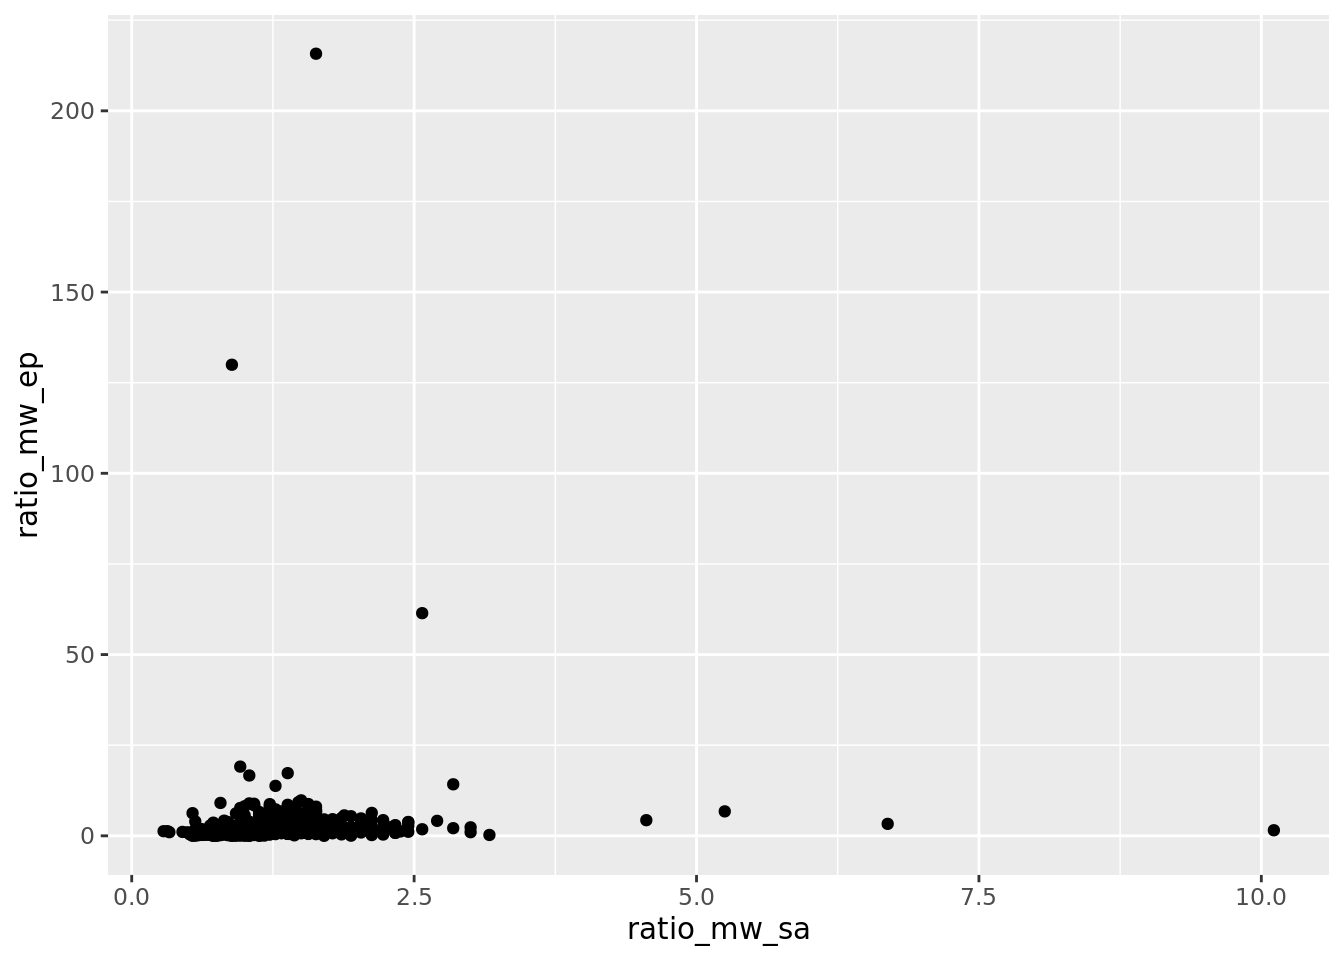
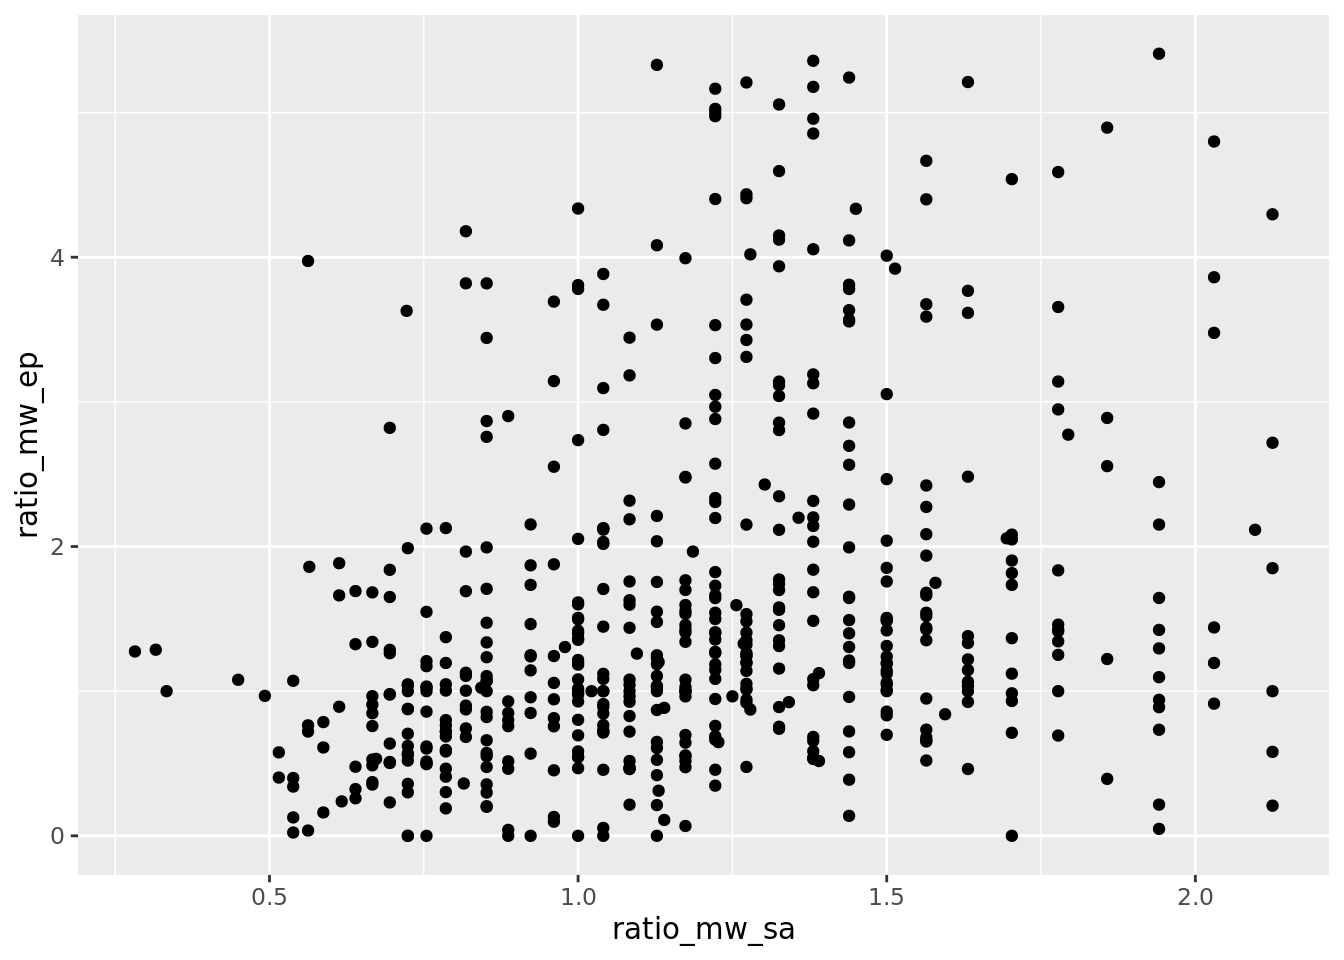
outliers public

diff --git a/docs/report.html b/docs/report.html
@@ -308,7 +308,20 @@ $ ratio_mw_ep         &lt;dbl&gt; 1.1985337, 2.4287042, 1.3413262, 1.3052437, 6.
 <div class="cell">
 <div class="sourceCode cell-code" id="cb7"><pre class="sourceCode r code-with-copy"><code class="sourceCode r"><span id="cb7-1"><a href="#cb7-1" aria-hidden="true" tabindex="-1"></a>eada_public <span class="ot">&lt;-</span> eada <span class="sc">|&gt;</span></span>
 <span id="cb7-2"><a href="#cb7-2" aria-hidden="true" tabindex="-1"></a>  <span class="fu">filter</span>(sector_name <span class="sc">==</span> <span class="st">"Public, 4-year or above"</span> <span class="sc">|</span> </span>
-<span id="cb7-3"><a href="#cb7-3" aria-hidden="true" tabindex="-1"></a>         sector_name <span class="sc">==</span> <span class="st">"Public, 2-year"</span>)</span></code><button title="Copy to Clipboard" class="code-copy-button"><i class="bi"></i></button></pre></div>
+<span id="cb7-3"><a href="#cb7-3" aria-hidden="true" tabindex="-1"></a>         sector_name <span class="sc">==</span> <span class="st">"Public, 2-year"</span>)</span>
+<span id="cb7-4"><a href="#cb7-4" aria-hidden="true" tabindex="-1"></a></span>
+<span id="cb7-5"><a href="#cb7-5" aria-hidden="true" tabindex="-1"></a>Q1_public_ep <span class="ot">&lt;-</span> <span class="fu">quantile</span>(eada_public<span class="sc">$</span>ratio_mw_ep, .<span class="dv">25</span>)</span>
+<span id="cb7-6"><a href="#cb7-6" aria-hidden="true" tabindex="-1"></a>Q1_public_sa <span class="ot">&lt;-</span> <span class="fu">quantile</span>(eada_public<span class="sc">$</span>ratio_mw_sa, .<span class="dv">25</span>)</span>
+<span id="cb7-7"><a href="#cb7-7" aria-hidden="true" tabindex="-1"></a></span>
+<span id="cb7-8"><a href="#cb7-8" aria-hidden="true" tabindex="-1"></a>Q3_public_ep <span class="ot">&lt;-</span> <span class="fu">quantile</span>(eada_public<span class="sc">$</span>ratio_mw_ep, .<span class="dv">75</span>)</span>
+<span id="cb7-9"><a href="#cb7-9" aria-hidden="true" tabindex="-1"></a>Q3_public_sa <span class="ot">&lt;-</span> <span class="fu">quantile</span>(eada_public<span class="sc">$</span>ratio_mw_sa, .<span class="dv">75</span>)</span>
+<span id="cb7-10"><a href="#cb7-10" aria-hidden="true" tabindex="-1"></a></span>
+<span id="cb7-11"><a href="#cb7-11" aria-hidden="true" tabindex="-1"></a>IQR_public_ep <span class="ot">&lt;-</span> <span class="fu">IQR</span>(eada_public<span class="sc">$</span>ratio_mw_ep)</span>
+<span id="cb7-12"><a href="#cb7-12" aria-hidden="true" tabindex="-1"></a>IQR_public_sa <span class="ot">&lt;-</span> <span class="fu">IQR</span>(eada_public<span class="sc">$</span>ratio_mw_sa)</span>
+<span id="cb7-13"><a href="#cb7-13" aria-hidden="true" tabindex="-1"></a></span>
+<span id="cb7-14"><a href="#cb7-14" aria-hidden="true" tabindex="-1"></a>eada_public <span class="ot">&lt;-</span> <span class="fu">subset</span>(eada_public, eada_public<span class="sc">$</span>ratio_mw_ep<span class="sc">&gt;</span> (Q1_public_ep <span class="sc">-</span> <span class="fl">1.5</span><span class="sc">*</span>IQR_public_ep) <span class="sc">&amp;</span> eada_public<span class="sc">$</span>ratio_mw_ep<span class="sc">&lt;</span> (Q3_public_ep <span class="sc">+</span> <span class="fl">1.5</span><span class="sc">*</span>IQR_public_ep))</span>
+<span id="cb7-15"><a href="#cb7-15" aria-hidden="true" tabindex="-1"></a></span>
+<span id="cb7-16"><a href="#cb7-16" aria-hidden="true" tabindex="-1"></a>eada_public <span class="ot">&lt;-</span> <span class="fu">subset</span>(eada_public, eada_public<span class="sc">$</span>ratio_mw_sa<span class="sc">&gt;</span> (Q1_public_sa <span class="sc">-</span> <span class="fl">1.5</span><span class="sc">*</span>IQR_public_sa) <span class="sc">&amp;</span> eada_public<span class="sc">$</span>ratio_mw_sa<span class="sc">&lt;</span> (Q3_public_sa <span class="sc">+</span> <span class="fl">1.5</span><span class="sc">*</span>IQR_public_sa))</span></code><button title="Copy to Clipboard" class="code-copy-button"><i class="bi"></i></button></pre></div>
 </div>
 <div class="cell">
 <div class="sourceCode cell-code" id="cb8"><pre class="sourceCode r code-with-copy"><code class="sourceCode r"><span id="cb8-1"><a href="#cb8-1" aria-hidden="true" tabindex="-1"></a>eada_nofootball <span class="ot">&lt;-</span> eada <span class="sc">|&gt;</span></span>
